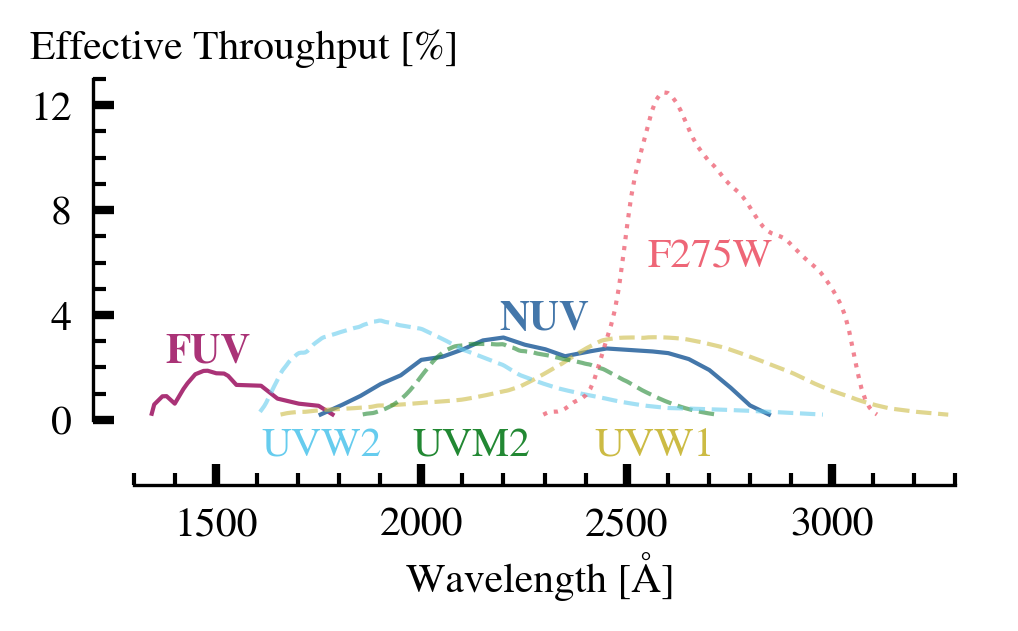
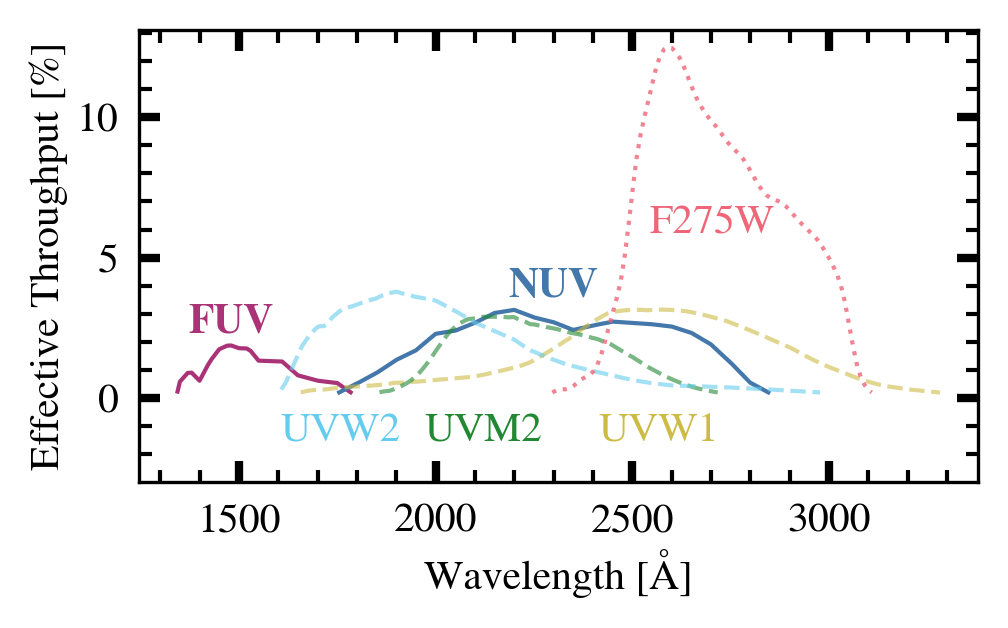
replaced plot frame

diff --git a/plot_filters.py b/plot_filters.py
@@ -4,21 +4,10 @@ import matplotlib.pyplot as plt
 import matplotlib.ticker as ticker
 from pathlib import Path
 
-# Plot settings
-x_min = 1300
-x_max = 3300
-y_min = 0
-dx_major = 500 # tick spacing
-dx_minor = 100
-dy_major = 4
-dy_minor = 1
-
 fig, ax = plt.subplots()
 
 # Import reference info
 ref = pd.read_csv(Path('ref/filters.csv'), index_col='name')
-
-y_max = 0
 
 for name, f in ref.iterrows():
     label = ' '.join([f.display_name, name])
@@ -40,7 +29,7 @@ for name, f in ref.iterrows():
     text_x = {'mean': np.mean(array.index), 
               'max': array.idxmax(), 
               'first': array.index[0] + 150}
-    text_y = {'above': array.max() + 0.7, 'below': -1, 'middle': array.max()/2}
+    text_y = {'above': array.max() + 0.8, 'below': -1.2, 'middle': array.max()/2}
     if f.instrument == 'GALEX':
         text_size = 10
         weight = 'bold'
@@ -54,35 +43,11 @@ for name, f in ref.iterrows():
     ax.plot(array.index, array.resp, label=label, ls=f.style, alpha=f.alpha, 
             c=f.color)
 
-    # Plot maxe
-    y_max = max(y_max, np.max(array.resp))
-
-x_ticks_major = np.arange(x_min, x_max + dx_major, dx_major)
-x_ticks_minor = np.arange(x_min, x_max + dx_minor, dx_minor)
-ax.xaxis.set_major_locator(ticker.MultipleLocator(dx_major))
-ax.xaxis.set_minor_locator(ticker.FixedLocator(x_ticks_minor))
-y_ticks_major = np.arange(y_min, y_max + dy_major, dy_major)
-y_ticks_minor = np.arange(y_min, y_max + dy_minor, dy_minor)
-ax.yaxis.set_major_locator(ticker.FixedLocator(y_ticks_major))
-ax.yaxis.set_minor_locator(ticker.FixedLocator(y_ticks_minor))
-ax.tick_params(axis='both', which='both', top=False, right=False)
-
-ax.spines['right'].set_visible(False)
-ax.spines['top'].set_visible(False)
-ax.spines['bottom'].set_bounds(x_min, x_max)
-ax.spines['left'].set_bounds(y_min, y_ticks_minor[-1])
-
-# Adjust ticks and frame
-ax.set_xlim((x_ticks_minor[0] - dx_minor, None))
-ax.set_ylim((-2.5 * dy_minor, None))
-
+ax.set_ylim((-3, None))
 ax.set_xlabel('Wavelength [Å]')
-# ax.set_xlim((1200, 3300))
-# ax.set_ylim((-1., None))
-ax.set_ylabel('Effective Throughput [%]', rotation='horizontal', ha='left', y=1.02, labelpad=0)
+ax.set_ylabel('Effective Throughput [%]')
 
-plt.tight_layout(pad=0.2)
-plt.subplots_adjust(top=0.9)
+plt.tight_layout(pad=0.3)
 
 plt.savefig(Path('out/filters.pdf'), bbox_inches='tight', dpi=300)
 plt.savefig(Path('out/filters.png'), bbox_inches='tight', dpi=300)
